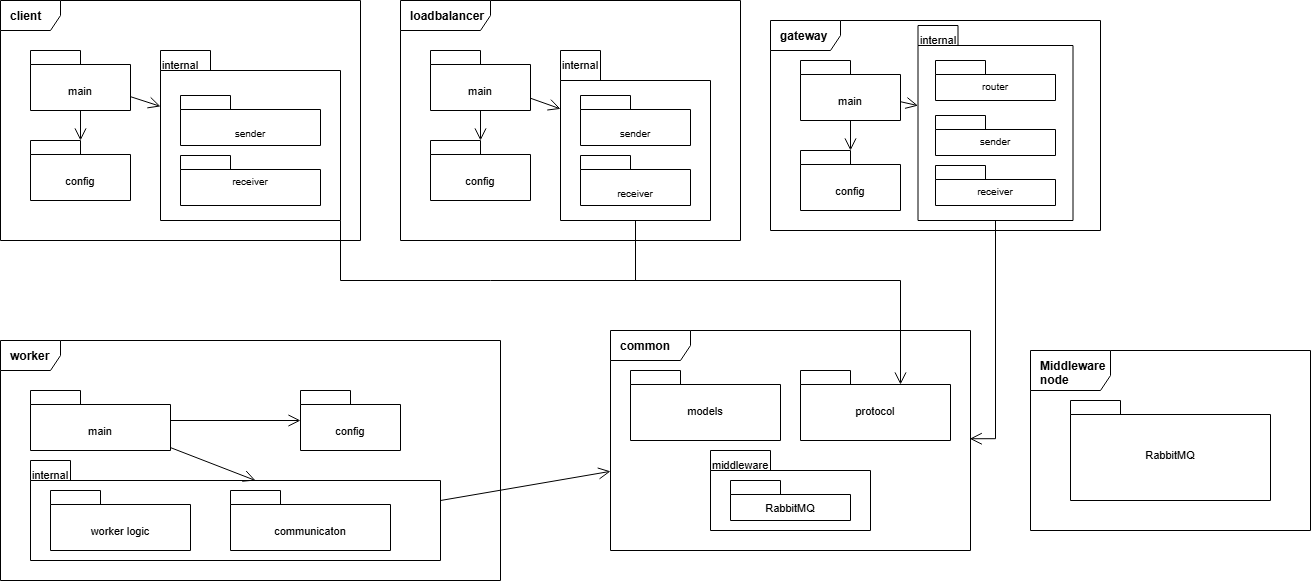
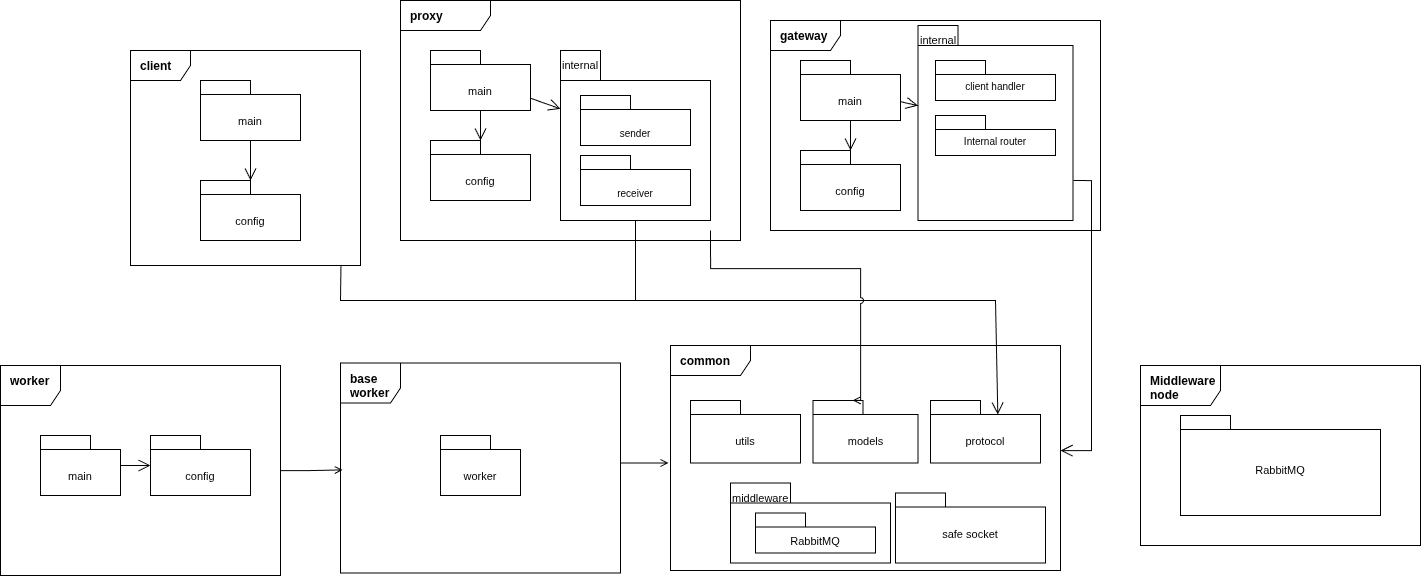
docs: enhance documentation on worker structure and side input handling

diff --git a/docs/TP_distribuidos.md b/docs/TP_distribuidos.md
@@ -135,6 +135,8 @@ El diagrama de paquetes muestra la organización modular de los componentes del 
 
 El paquete **worker** representa de manera unificada a todos los nodos de procesamiento del pipeline (filtros, sharders, mappers, aggregators y reducers). Aunque cada uno tiene su lógica propia, comparten una misma estructura base (entrada desde el broker, procesamiento, salida al broker) por lo que se modelan como un único paquete para mantener el diagrama legible.
 
+Esa estructura compartida vive en el paquete **base worker**, que agrupa las abstracciones comunes (manejo de EOFs, coordinación en anillo, ciclo de vida, etc.) sobre las que se construye cada worker concreto.
+
 ![Diagrama de paquetes](diagramas/diagrama_paquetes.png)
 
 ### Vista Física
@@ -178,6 +180,20 @@ En el siguiente gráfico se ilustran los tipos de workers presentes en el pipeli
 ![Workers según el manejo del EOF](diagramas/diagrama_workers_eof.png)
 
 El color de cada nodo indica su categoría: rojo para `StatelessWorker`, amarillo para `StatefulCoordinatedWorker`, azul para `SentCoordinatedWorker` y verde para `SideInputStatelessCoordinatedWorker`.
+
+### Workers y el manejo de múltiples entradas
+
+Dentro de las queries 2 y 3, tenemos dos workers que van a recibir información de dos workers al mismo tiempo. De parte de la query 2, el BankMapper va a recibir información para mapear el nombre del banco a partir del id y también va a recibir los máximos por cuenta de cada banco. Por parte de la query 3, el AnomalyFilter va a recibir por un lado el promedio de transacciones de cada medio de pago y también las transacciones a filtrar.
+
+Ambos workers están implementados sobre `SideInputStatelessCoordinatedWorker` (los nodos verdes del diagrama anterior), la variante de `RingCoordinatedWorker` mencionada arriba que suma el manejo de una segunda entrada al protocolo de anillo.
+
+Las soluciones provistas para manejar la conexión sirven para una entrada, no para dos, por lo que se le agregó un comportamiento extra a los workers previamente mencionados. Se implementó el `SideInputTracker`, el cual va a hacer un seguimiento de la segunda entrada, en nuestros casos, los promedios y la información de los bancos. Esta información se va a recibir mediante otros exchanges y cada réplica va a recibir su propio EOF, a diferencia del ring, donde uno lo recibe y se comunican entre sí.
+
+Es importante aclarar que el worker necesita de esta segunda entrada para poder procesar lo que recibe, por lo que si recibe entradas para procesar y no está la información completa, se guardarán en disco para ser procesadas posteriormente. Si la información ya está, se procesarán normalmente.
+
+El spill (`BatchSpill`) almacena los batches por cliente, batch por batch, de modo de no perder el conteo que el ring necesita. Al hacer `_flush_data` se drena el archivo y se emiten los resultados pendientes por el exchange.
+
+Como el worker necesita la segunda entrada para procesar, el comienzo de la coordinación del ring también se posterga: tanto el `EOF` del flujo principal como cualquier `RING_EOF` que llegue antes del cierre del side input quedan diferidos hasta que `SideInputTracker` marca el flujo como `ready`.
 
 ### Batches y Batch Size
 